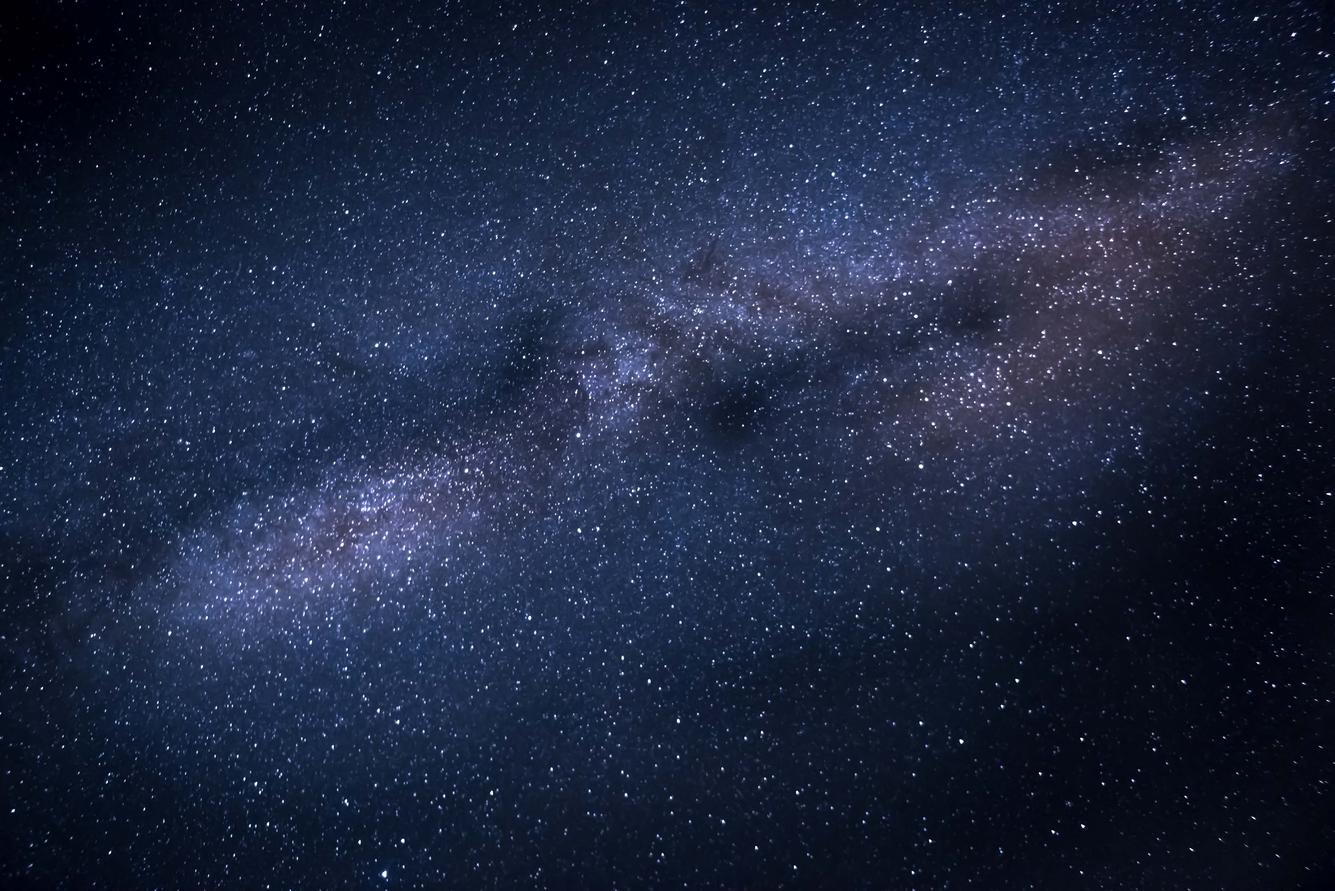
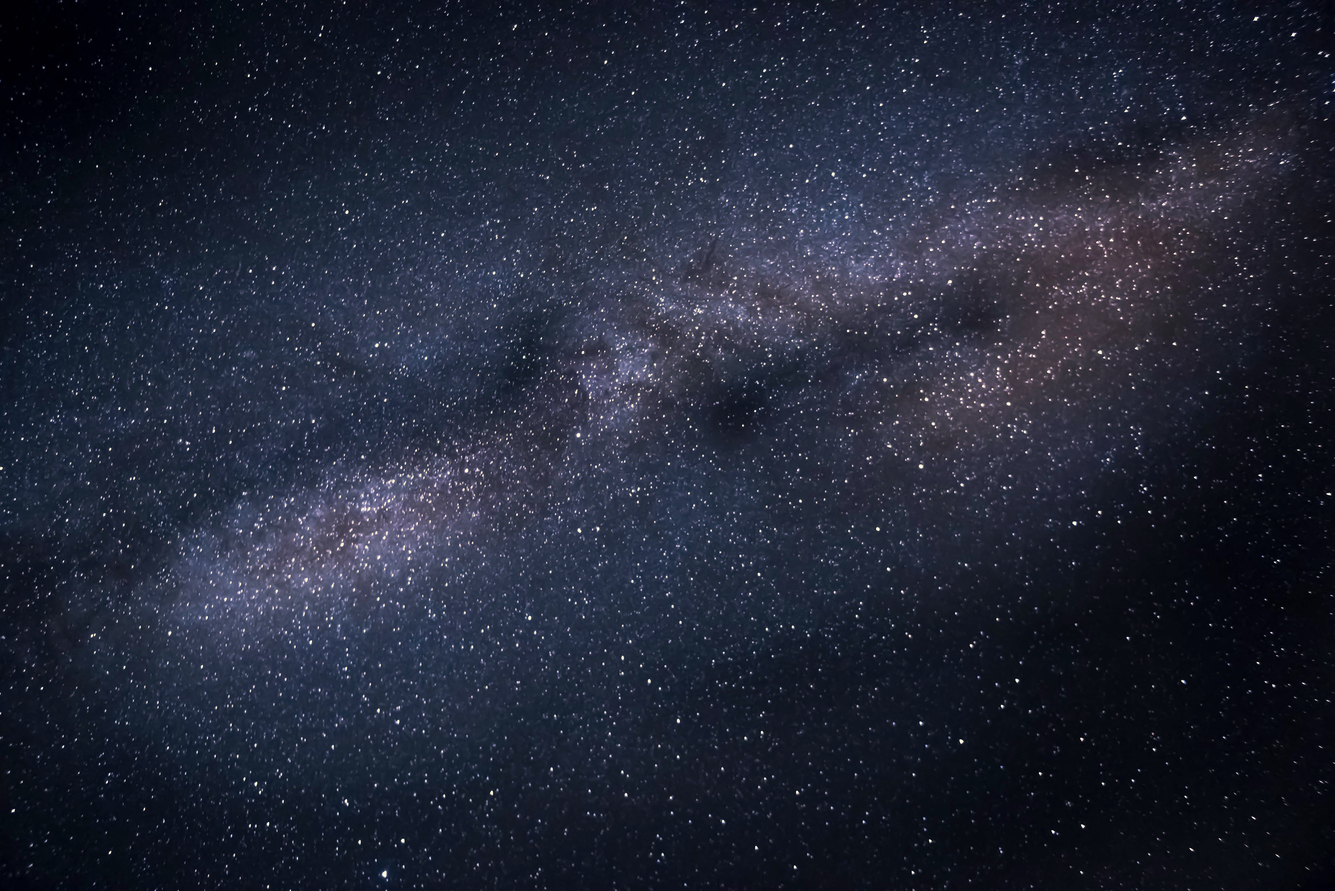
Changed background colors, added scroll logic on main page

diff --git a/css/final.css b/css/final.css
@@ -1,7 +1,7 @@
 *{ font-family: 'Abel', sans-serif; }
 
 .navbar {
-	background: #6c7896;
+	background: #8d97a8;
 }
 
 .masthead-name {
@@ -81,8 +81,9 @@ a.nav-link {
 .about-main {
 	padding-top: 50px;
 	height: 100vh;
-	background-color: #d8dcec;
 	color: dimgray;
+	background-color: #dee5ef;
+}
 }
 
 .about-me {

diff --git a/js/final.js b/js/final.js
@@ -27,4 +27,11 @@ $(document).ready(function(){
         onSuccess
     ).fail(onError);
   })
+
+  $('#portfolio-link').click(function(event){
+    event.preventDefault();
+    var tag = $("#portfolio");
+    $('html,body').animate({scrollTop: tag.offset().top},'slow');
+  })
+
 });

diff --git a/index.html b/index.html
@@ -37,7 +37,7 @@
 						</div>
 					</div>
 					<br>
-					<a href="#portfolio" role="button">
+					<a href="#portfolio" role="button" id="portfolio-link">
 						<img src="img/down_arrow.png" alt="scroll-arrow" height="50px" width="50px">
 					</a>
 				</div>
